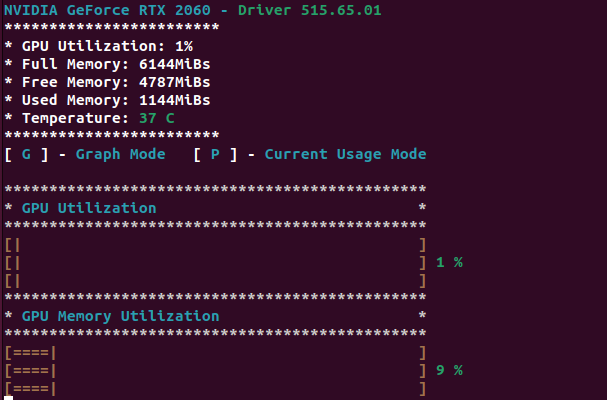
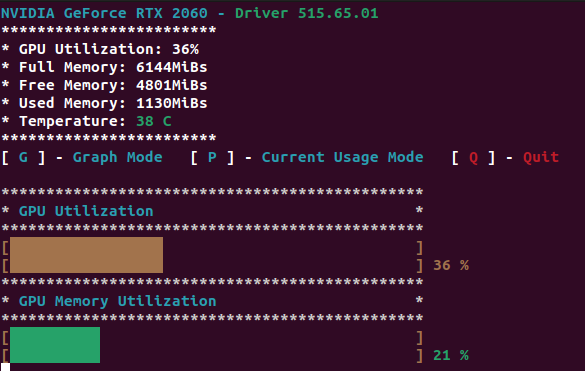
Different progress visuals; Default in graph mode; Quit option displaye

Changed region(s): [[0.0, 0.0, 0.8, 1.0], [0.7692, 0.4151, 0.8615, 0.4447], [0.8923, 0.4151, 0.9538, 0.4447]]

diff --git a/src/GraphOutputCli.cpp b/src/GraphOutputCli.cpp
@@ -34,17 +34,22 @@ void OutputCli::OutputProgress(const char* pszGraphName, const unsigned short ut
   std::stringstream ss;  
   ss << GraphCli::Font::ColorOutput(GraphCli::Font::Color::Yellow);
   const float progress = utilization*.01;
-  for(int j = 0; j < 3; ++j) {
+  for(int j = 0; j < 2; ++j) {
     ss << "[";
     const unsigned short position = maxWidth * progress;
+    std::string barColor;
     for(int i = 0; i < maxWidth; ++i) {
-      if(i < position)
-	  ss << "=";
-      else if(i == position)
-	  ss << "|";
-      else
-  	  ss << " ";   
+      if(i <= position) {
+        if(utilization <30) barColor = GraphCli::Font::ColorOutput(GraphCli::Font::Color::BackgroundGre);
+	else if(utilization  >30 && utilization <=75) barColor = GraphCli::Font::ColorOutput(GraphCli::Font::Color::BackgroundYel);
+	else if(utilization > 75) barColor = GraphCli::Font::ColorOutput(GraphCli::Font::Color::BackgroundRed);
+      }
+      else {
+	  barColor = GraphCli::Font::ColorOutput(GraphCli::Font::Color::BackgroundDft);
+      }
+      ss << barColor << " ";
     }
+    ss << GraphCli::Font::ColorOutput(GraphCli::Font::Color::BackgroundDft);
     ss << "] ";
     if(j == 1) {
       if(utilization > 30 && utilization <= 75) {
@@ -117,6 +122,7 @@ void OutputCli::OutputGraphCurrentState() const {
     ss << std::endl;
   } 
   ss << "       -------------------------------------------------------------" << std::endl;
+  ss << "Secs   60           45             30             15               1" << std::endl;
 
   ss << std::endl;
   std::cout << ss.str();

diff --git a/src/main.cpp b/src/main.cpp
@@ -33,8 +33,8 @@ int main(int argc, char** argv) {
   if(!initCheck())
     return 1;
 
-  progressThread = true;
-  std::thread currentDisplayThread(displayProgressMetrics);
+  graphThread = true;
+  std::thread currentDisplayThread(displayGraphMetrics);
   char userInput;
   do {
     userInput = captureInput();
@@ -90,8 +90,11 @@ void displayHeader(const GraphCli::Metrics& metrics) {
 	  << "[" << GraphCli::Font::ColorOutput(GraphCli::Font::Color::Cyan)
           << " P " << GraphCli::Font::ColorOutput(GraphCli::Font::Color::Default)
           << "] - " << GraphCli::Font::ColorOutput(GraphCli::Font::Color::Cyan)
-	  << "Current Usage Mode"
-          << GraphCli::Font::ColorOutput(GraphCli::Font::Color::Default)
+	  << "Current Usage Mode" << std::setw(8) << GraphCli::Font::ColorOutput(GraphCli::Font::Color::Default)
+	  << "[" << GraphCli::Font::ColorOutput(GraphCli::Font::Color::Red)
+	  << " Q " << GraphCli::Font::ColorOutput(GraphCli::Font::Color::Default)
+	  << "] - " << GraphCli::Font::ColorOutput(GraphCli::Font::Color::Red)
+	  << "Quit" << GraphCli::Font::ColorOutput(GraphCli::Font::Color::Default)
 	  << std::endl;
 
 }

diff --git a/README.md b/README.md
@@ -6,9 +6,8 @@ A simple and lightweight CLI graphing tool for NVIDIA video cards
 ## Graph Mode
 ![graph-mode.png](graph-mode.png)
 
-
 ## Make
-**nvidia-smi** installation is required. If not found in path, it will error out at runtime.
+**nvidia-smi** tool installation is required. If not found in path, it will error out at runtime.
 
 ### Build
 Builds binary file.
